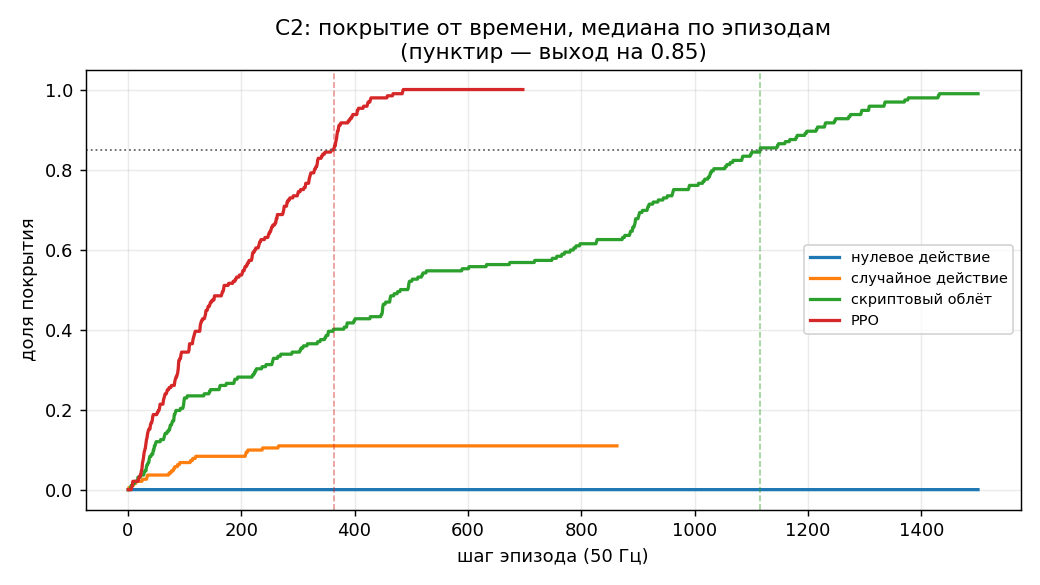
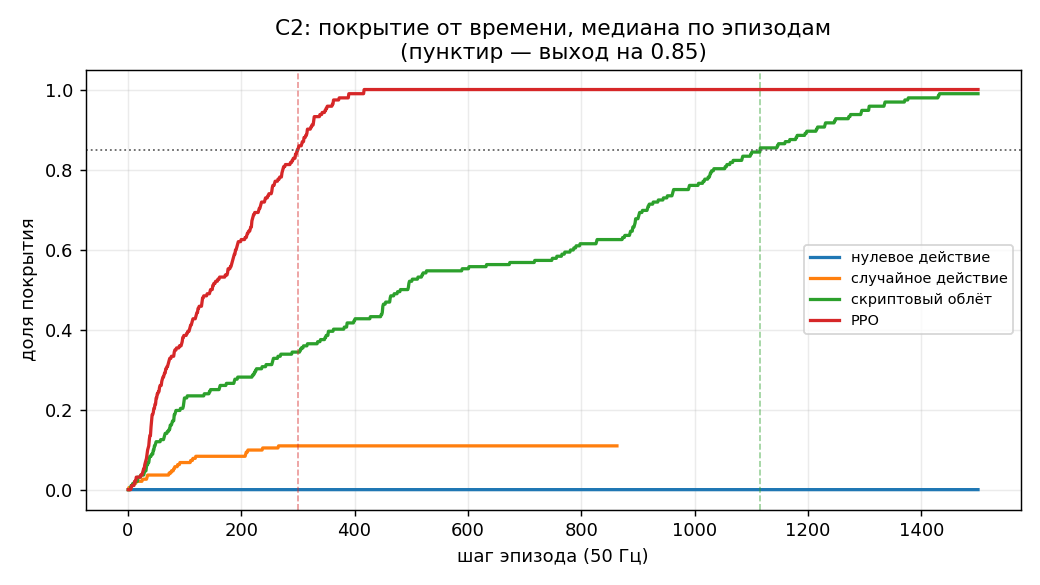
feat(lesson14): трек C дообучен, сравнение двух прогонов
Полный прогон C2 «Сканер»: 2 002 944 шага, 8 сред, 14.4 мин, 2314 шаг/с.
Куррикулум отработал: cov_target 0.5 -> 0.85, радиус старта 3.5 -> 4.5 м.

Результат оказался неочевидным и попал в урок как есть:

  прогон                     покрытие  дошли   шагов до 0.85  аварий
  600 тыс. (поставляется)     0.9943   20/20        361        0.00
  2 млн                       0.9708   19/20        298        0.05

Более длинное обучение сделало политику на 17 % быстрее и стоило одного
эпизода из двадцати. Оба прогона проходят все четыре критерия C2, но
по-разному: один выигрывает скорость, другой надёжность. Ни «последний»,
ни «самый длинный» чекпойнт не оказался безусловно лучшим — это ровно то,
ради чего в главе 07 написано «выбирайте чекпойнт замером, а не по номеру».

В поставке оставлены веса 600 тыс.: для учебного трека воспроизводимость
важнее двух секунд. Гифка перерисована с них же, чтобы артефакт
соответствовал числам в README.

Природа потерянного эпизода разобрана честно: в обучающей среде эпизод
обрывается на пороге 0.85, поэтому «что делать после того, как всё снято»
политика не видела ни разу; в оценке порог недостижим, и она летает за
пределами своего опыта. Провал задачи считается только по авариям ДО порога.

Заодно подтверждено C1: PPO 500 из 500 шагов, 20/20 доживших, финальная
ошибка 0.1667 м против 78.8 шага и 3.377 м у нулевого действия.

Changed region(s): [[0.1538, 0.1538, 0.4, 0.6769], [0.5231, 0.1231, 0.9231, 0.1846], [0.1231, 0.6769, 0.1538, 0.8308]]

diff --git a/lesson 14 (RL custom models)/track_c_drone/README.md b/lesson 14 (RL custom models)/track_c_drone/README.md
@@ -189,6 +189,32 @@ python evaluate.py --hover policies/hover --scan policies/scan --episodes 20 --i
 при нуле аварий у обеих. Побеждает она не по потолку покрытия — его берут обе, —
 а по времени. Картинка: `images/coverage_curve.png`.
 
+### Более длинный прогон: быстрее, но менее надёжно
+
+Поставляемые веса обучены 600 тыс. шагов. Отдельно прогнан полный бюджет
+2 002 944 шага (14.4 минуты, 2314 шаг/с) — и результат вышел неочевидным:
+
+| прогон | покрытие | дошли до 0.85 | **шагов до 0.85** | аварий до 0.85 | худший эпизод |
+|---|---:|---:|---:|---:|---:|
+| 600 тыс. (поставляется) | 0.9943 | **20/20** | 361 | 0.00 | — |
+| 2 млн | 0.9708 | 19/20 | **298** | 0.05 | 0.4167 |
+
+Более длинное обучение сделало политику **на 17 % быстрее** и при этом
+стоило одного эпизода из двадцати. Оба прогона проходят все четыре критерия
+C2, но по-разному: один выигрывает скорость, другой — надёжность.
+
+Это тот самый случай, ради которого в главе 07 написано «выбирайте чекпойнт
+замером, а не по номеру». Ни «последний», ни «самый длинный» не оказались
+безусловно лучшими. В поставку взят более надёжный: для учебного трека
+важнее, чтобы у студента воспроизвелось, чем чтобы было на две секунды
+быстрее. Гифка выше снята именно с него.
+
+Честная оговорка о природе потерянного эпизода: в ОБУЧАЮЩЕЙ среде эпизод
+обрывается на пороге 0.85, поэтому «что делать после того, как всё снято»
+политика не видела ни разу. В оценке порог недостижим (`cov_target = 1.01`),
+и она продолжает летать за пределами своего опыта. Провал задачи считается
+только по колонке «аварий ДО порога».
+
 Все четыре критерия C2 взяты: медиана 361 < 600, доля дошедших 1.00 ≥ 0.90,
 покрытие 0.9943 ≥ 0.95, аварий до порога 0.00 ≤ 0.05. Цена — **3 мин 17 с**
 обучения на 8 ядрах без видеокарты.
